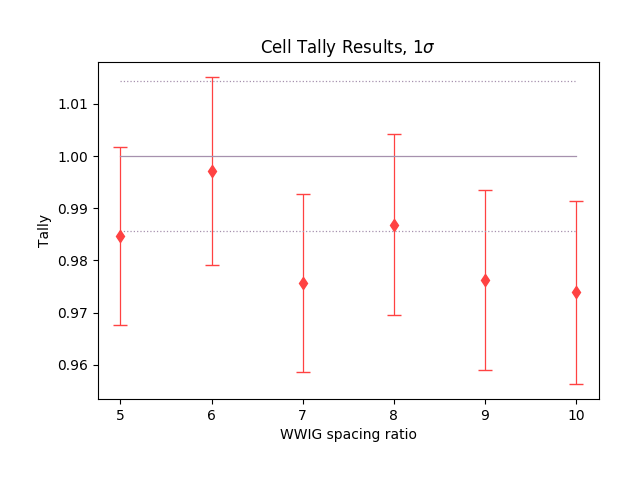
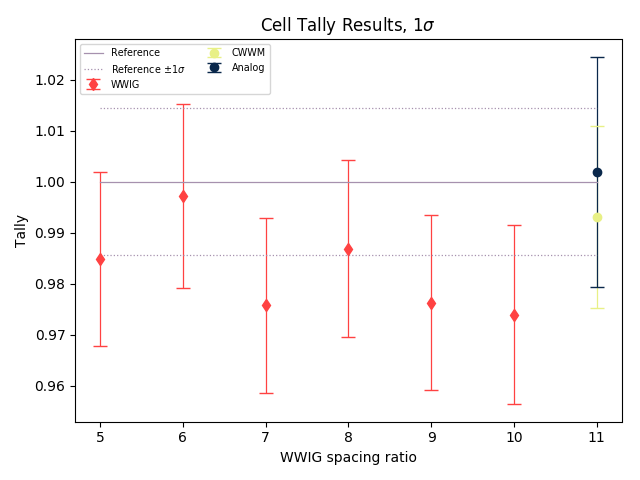
added cwwm and analog to tally plots

diff --git a/performance-analysis/analysis/plot_tally_ratio_data.py b/performance-analysis/analysis/plot_tally_ratio_data.py
@@ -23,10 +23,17 @@ def plot_tally_ratios(df_output, pltratio=True, n_sigma=n_sigma):
 
     plt.figure()
 
+    xmax = 11  # for location of the analog and cwwm results
+
     ref_tally = df_output.loc[df_output['mode'] ==
                               'reference']['tally total']
     ref_err = df_output.loc[df_output['mode'] ==
                             'reference']['error total']
+
+    cwwm_tally = df_output.loc[df_output['mode'] ==
+                               'cwwm']
+    ana_tally = df_output.loc[df_output['mode'] ==
+                              'analog']
 
     if pltratio:
         ref_tally_plt = np.full(2, 1)
@@ -50,33 +57,68 @@ def plot_tally_ratios(df_output, pltratio=True, n_sigma=n_sigma):
     if pltratio:
         tally_vals['tally ratio total'] = tally_vals['tally total'] / \
             float(ref_tally)
+        cwwm_tally['tally ratio total'] = cwwm_tally['tally total'] / \
+            float(ref_tally)
+        ana_tally['tally ratio total'] = ana_tally['tally total'] / \
+            float(ref_tally)
 
     # plot raw values
     if pltratio:
-        m1 = tally_vals['tally total']
-        e1 = tally_vals['error total']
         m2 = float(ref_tally)
         e2 = float(ref_err)
+
+        # wwig
+        m1 = tally_vals['tally total']
+        e1 = tally_vals['error total']
         s1 = m1 * e1
         s2 = m2 * e2
         yerr = np.sqrt((s1 / m2)**2 + (m1 * s2 / (m2 * m2))**2) * n_sigma
+
+        # cwwm
+        m1 = cwwm_tally['tally total']
+        e1 = cwwm_tally['error total']
+        s1 = m1 * e1
+        s2 = m2 * e2
+        y_cwwm_err = np.sqrt((s1 / m2)**2 + (m1 * s2 / (m2 * m2))**2) * n_sigma
+
+        # analog
+        m1 = ana_tally['tally total']
+        e1 = ana_tally['error total']
+        s1 = m1 * e1
+        s2 = m2 * e2
+        y_ana_err = np.sqrt((s1 / m2)**2 + (m1 * s2 / (m2 * m2))**2) * n_sigma
     else:
         yerr = tally_vals['tally total'] * tally_vals['error total'] * n_sigma
+        y_cwwm_err = cwwm_tally['total tally'] * \
+            cwwm_tally['error total'] * n_sigma
+        y_ana_err = ana_tally['total tally'] * \
+            ana_tally['error total'] * n_sigma
 
     if pltratio:
         y = tally_vals['tally ratio total']
+        cwwm_y = cwwm_tally['tally ratio total']
+        ana_y = ana_tally['tally ratio total']
     else:
         y = tally_vals['tally total']
+        cwwm_y = cwwm_tally['tally total']
+        ana_y = ana_tally['tally total']
 
     plt.errorbar(tally_vals['ratio'], y, yerr=yerr,
                  marker='d', lw=lw, capsize=cs, ls='',
-                 color=colors[0], label='')
-    plt.plot([ratios[0], ratios[-1]], ref_tally_plt,
-             color=colors['reference'], ls='-', lw=lw)
-    plt.plot([ratios[0], ratios[-1]], ref_sigma_plt_n,
-             color=colors['reference'], ls=':', lw=lw)
-    plt.plot([ratios[0], ratios[-1]], ref_sigma_plt_p,
-             color=colors['reference'], ls=':', lw=lw)
+                 color=colors[0], label='WWIG')
+    plt.errorbar([xmax], cwwm_y, yerr=y_cwwm_err,
+                 marker='o', lw=lw, capsize=cs, ls='',
+                 color=colors['cwwm'], label='CWWM')
+    plt.errorbar([xmax], ana_y, yerr=y_ana_err,
+                 marker='o', lw=lw, capsize=cs, ls='',
+                 color=colors['analog'], label='Analog')
+    plt.plot([ratios[0], xmax], ref_tally_plt,
+             color=colors['reference'], ls='-', lw=lw, label='Reference')
+    plt.plot([ratios[0], xmax], ref_sigma_plt_n,
+             color=colors['reference'], ls=':', lw=lw,
+             label='Reference $\pm {} \sigma$'.format(n_sigma))
+    plt.plot([ratios[0], xmax], ref_sigma_plt_p,
+             color=colors['reference'], ls=':', lw=lw, label='')
 
     # labels
     ylabel = 'Tally'
@@ -85,9 +127,9 @@ def plot_tally_ratios(df_output, pltratio=True, n_sigma=n_sigma):
     plt.title(title)
     plt.xlabel(xlabel)
     plt.ylabel(ylabel)
-    # plt.text(0.01, 0.5, ylabel, va='center', rotation='vertical')
-    # plt.text(0.5, 0.01, xlabel, ha='center')
-    plt.tight_layout(pad=2.7, w_pad=.5)
+    plt.legend(loc='best', ncol=2,
+               fontsize='x-small')
+    plt.tight_layout()
 
     save_name = 'images/surface_tally_results_ratios_{}.png'.format(n_sigma)
     plt.savefig(save_name)
